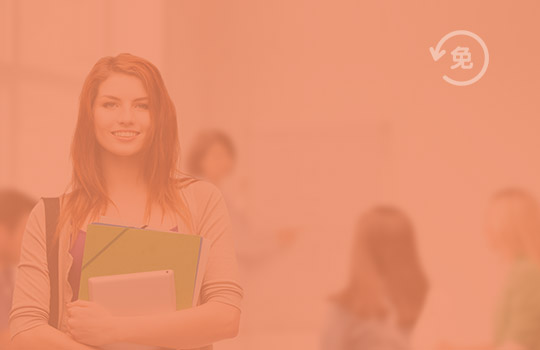
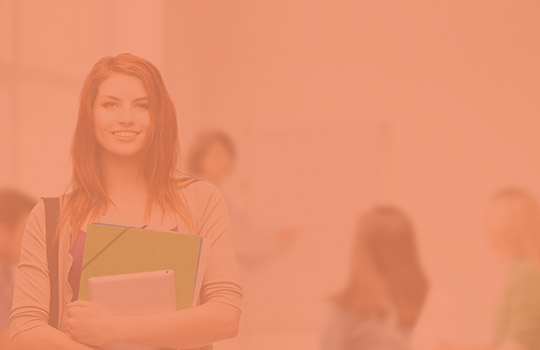
做了一些修改

Changed region(s): [[0.8, 0.0857, 0.9185, 0.2571], [0.8, 0.2, 0.8296, 0.2286]]

diff --git a/index.html b/index.html
@@ -9,9 +9,9 @@
 </head>
 <body>
 	<div class="header">
-		<img src="img/nav.png" alt="" id="nav">
+		<!-- <img src="img/nav.png" alt="" id="nav"> -->
 		<img src="img/logo.png" alt="" id="logo">
-		<img src="img/personal-center.png" alt="" id="personalCenter">
+		<!-- <img src="img/personal-center.png" alt="" id="personalCenter"> -->
 	</div>
 	<div class="slogan">
 		<div class="slogan-word">
